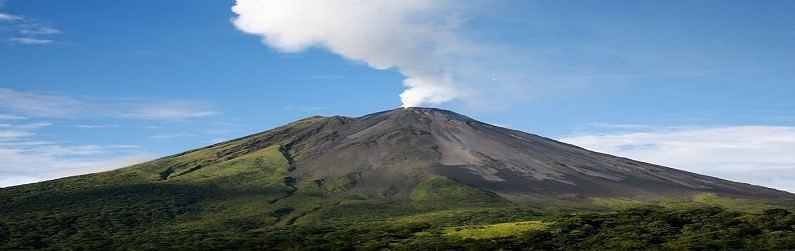
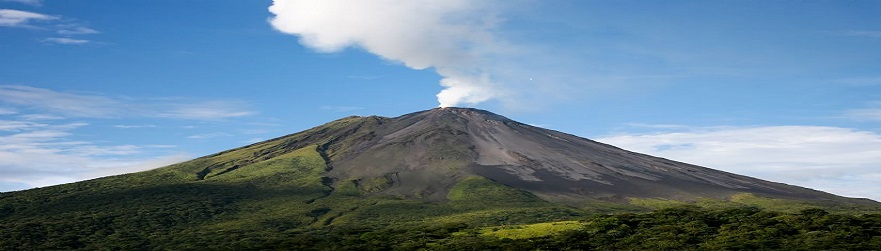
Add files via upload

diff --git a/css/default.css b/css/default.css
@@ -4,15 +4,15 @@
     box-sizing: border-box;
 }
 body{
-    background: #fff url('../images/background.png') repeat;
+    background: #488000 url('../images/background.png')  repeat-x;
     font-size: 11px;
     font-family: 'Trebuchet MS', sans-serif;
+    color: black;
     line-height: 18px;
-    
 }
 
 a{
-    color: #488000;
+    color: white;
     text-decoration: underline;
 }
 
@@ -32,10 +32,10 @@ p{
 
 img.picA{
     position: relative;
-    top: -2px;
+    top: -1px;
     width: 45px;
     height: 45px;
-    padding: 5px;
+    padding: 3px;
 }
 
 img.picB{
@@ -55,26 +55,24 @@ img.floatleft{
 #outer{
     position: relative;
     width: 60%;
-    height: 920px;
-    margin-top: 11px;
+    margin-top: 10px;
     background: #fff;
     border: initial;
     overflow: overlay;
     margin: 0px auto;
-    padding: 5px 5px 5px px;
 }
 
 #header{
-    max-width: 100%;
+    max-width: 110%;
     height: 170px;
 }
 
 #header #logo{
     float: left;
     width: 33%;
-    height: 170px;
     color: #fff;
     text-align: center;
+    height: 170px;
     padding-top: 20px;
 }
 
@@ -85,6 +83,7 @@ img.floatleft{
     top: 50px;
     left: 10px;
     font-weight: bold;
+    padding-left: 40px;
 }
 
 #pricipalcontent{
@@ -93,23 +92,24 @@ img.floatleft{
 }
 
 #secondarycontent{
-    width: 70%;
+    width: 65%;
     float: right;
 }
 
 #secondarycontent h3{
     font-size: 16px;
     line-height: 25px;
-    color: #656551;
+    color: #080808;
     letter-spacing: -1;
     padding: 0px 0px 10px 15px;
     margin-bottom: 25px;
 }
 
 #secondarycontent .content{
-    
-    padding: 0px 10px 0px 10px;
     margin-bottom: 20px;
+    padding: 0px 10px 0px 10px;
+    text-align: center;
+    margin-left: 1px;
 }
 
 #primarycontent{
@@ -120,19 +120,19 @@ img.floatleft{
 
 #primarycontent h3{
     font-size: 18px;
-    line-height: 25px;
-    color: #656551;
+    padding-top: 10px;
+    color: #080808;
     letter-spacing: -1;
-    padding: 3px 3px 3px 5px;
+    padding: 0px 10px 0px 10px;
     margin-bottom: 20px;
 }
 
 #primarycontent h4{
     font-size: 18px;
-    line-height: 25px;
-    color: #1daf0a;
+    line-height: 10px;
+    color: black;
     letter-spacing: -1;
-    padding: 0px 0px 5px 5px;
+    padding: 0px 10px 0px 10px;
     margin-bottom: 20px;
 }
 
@@ -141,10 +141,8 @@ img.floatleft{
 }
 
 #primarycontent .post .content{
+    padding: 0px 10px 0px 10px;
     margin-bottom: 20px;
-    padding: 0px;
-    text-align: justify;
-    margin-left: 5px;
 
 }
 
@@ -158,6 +156,7 @@ img.floatleft{
     padding: 0px;
     list-style: none;
     text-align: center;
+    background-color: #488000;
 }
 
 
@@ -172,13 +171,29 @@ img.floatleft{
 }
 
 #footer-bottom #footer-menu ul li ::after{
-    content: "/";
+    content: "|";
 }
 
 #footer-bottom #footer-menu ul li :last-child::after{
     content: "";
 }
 
+@media screen and (max-width: 1000px) {
+    #header #logo{
+        width: 100%;
+    }
+
+    #header #splash{
+        display: none;
+    }
+
+    #secondarycontent{
+        display: none;
+    }
+    #primarycontent{
+        width: 100%;
+    }
+}
 
 
 

diff --git a/index.html b/index.html
@@ -2,19 +2,19 @@
 <html lang="en">
 <head>
     <meta charset="UTF-8">
-    <meta http-equiv="X-UA-Compatible" content="IE=edge">
     <meta name="viewport" content="width=}, initial-scale=1.0">
     <link rel="stylesheet" type="text/css" href="css/default.css">
     <link rel="stylesheet" type="text/css" href="css/menu.css">
     <title>Green Costa Rica</title>
 </head>
+
 <body>
 
     <div id="outer">
 
         <header id="header">
             <div id="logo">
-                <img src="images/banner.jpg" alt="">
+                <img src="images/banner.jpg" width="810px" height="250px">
                 <div class="h1">Green Costa Rica</div>
             </div>
 
@@ -27,7 +27,6 @@
                 <a class="principal" href="#">Destinos</a>
                 <a class="principal" href="#">Flora y Fauna</a>
                 <a class="principal" href="#">Contáctenos</a>
-
             </div>
         </nav>
 
@@ -47,12 +46,13 @@
                         <p>Vista Los Sueños Rainforest Tours le ofrece impresionantes Cataratas, sorprendentes
                             vistas del Golfo de Nicoya y el Océano pacífico mientras que dentro de la propiedad podrá
                             tener la oportunidad de admirar vida silvestre como Guacamayas, Tucanes y Monos
-                            Cariblancos. </p>
+                            Cariblancos.
+                        </p>
                     </div>
 
                 </article>
 
-                <article id="post">
+                <article class="post">
 
                     <div class="header">
                         <h3>Relevante</h3>
@@ -73,9 +73,6 @@
 
                  <!-- primary content end -->
             </div>
-
-
-            
 
              <aside id="secondarycontent">
                 <!-- secondary content start -->

diff --git a/css/menu.css b/css/menu.css
@@ -18,9 +18,16 @@
 #container a:hover{
 font-size: larger;
 font-weight: bold;
-background-color:  #b5f068;
+background-color:  #60a376;
 }
 
 #container a.last{
     border-right: 0px;
+}
+
+@media screen and (max-width: 1000px) {
+    #container, #container .principal{
+        width: 100%;
+        border-right: 0px;
+    }
 }
